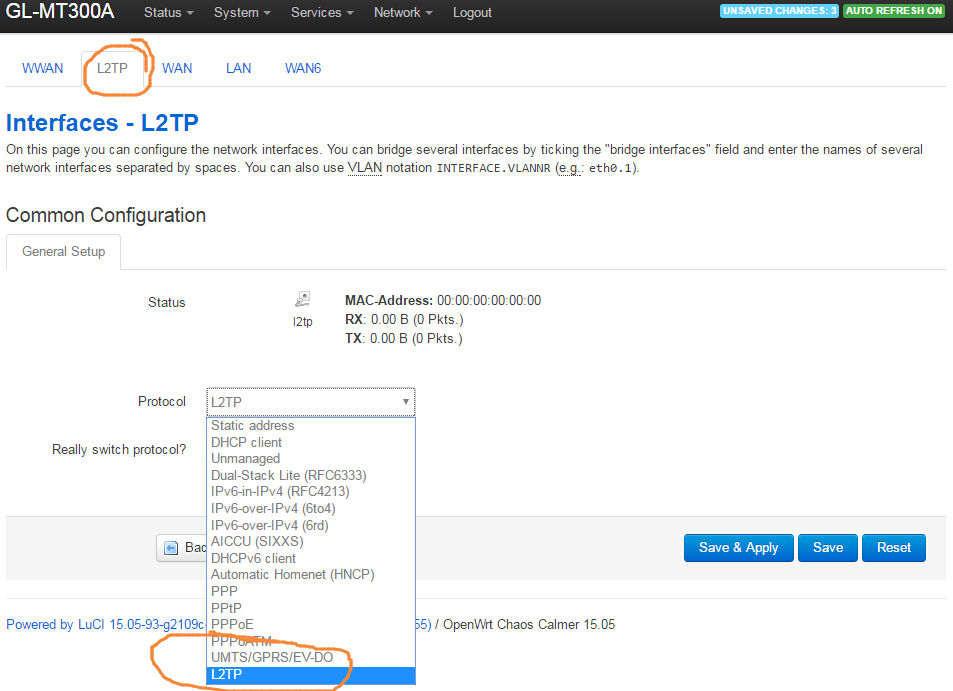
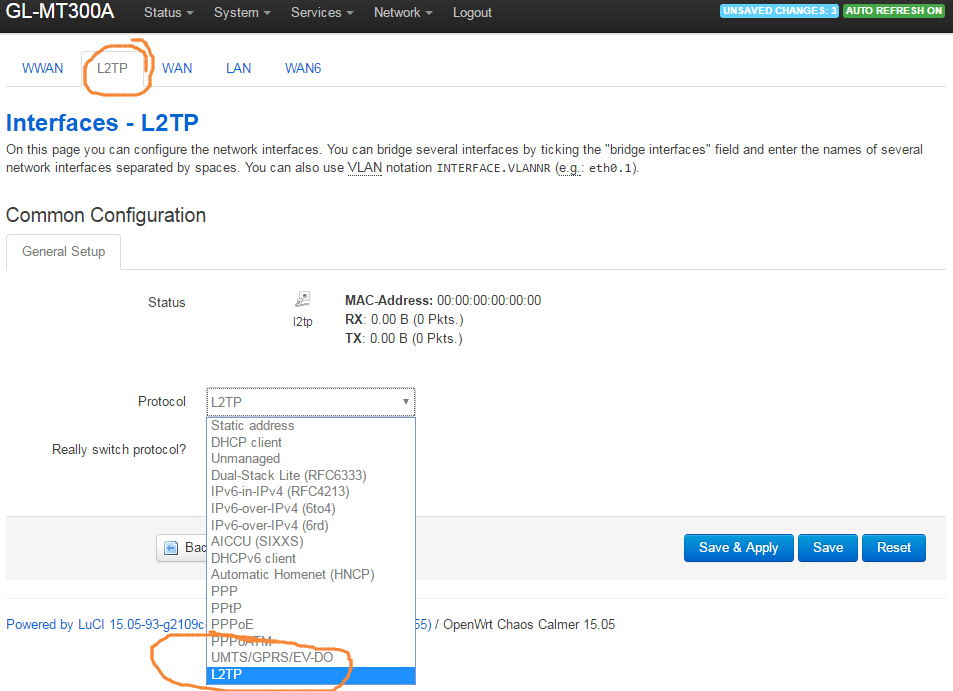
reduce file size

diff --git a/docs/openwrt/openvpn.md b/docs/openwrt/openvpn.md
@@ -73,7 +73,7 @@ We would like to add more functions in the ovpn manager, you can send us a wish 
 * Delete, order and ranking servers. Now we don't have a algorithms to rank the servers, as you will not know the speed unless you try. We can record the speed if you have tried.
 * Manage multiple VPN services. While most people just use one service, we don't know if this is necessary.
 
-![ovpn manager](src/openvpn/7.png)
+![ovpn manager](src/openvpn/7.jpg)
 
 
 ##Where to get ovpn Files
